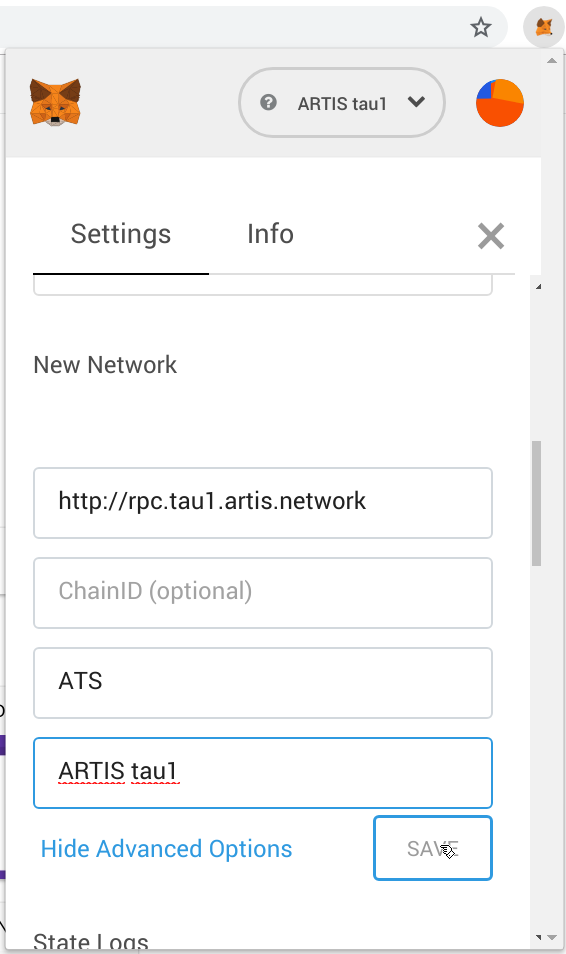
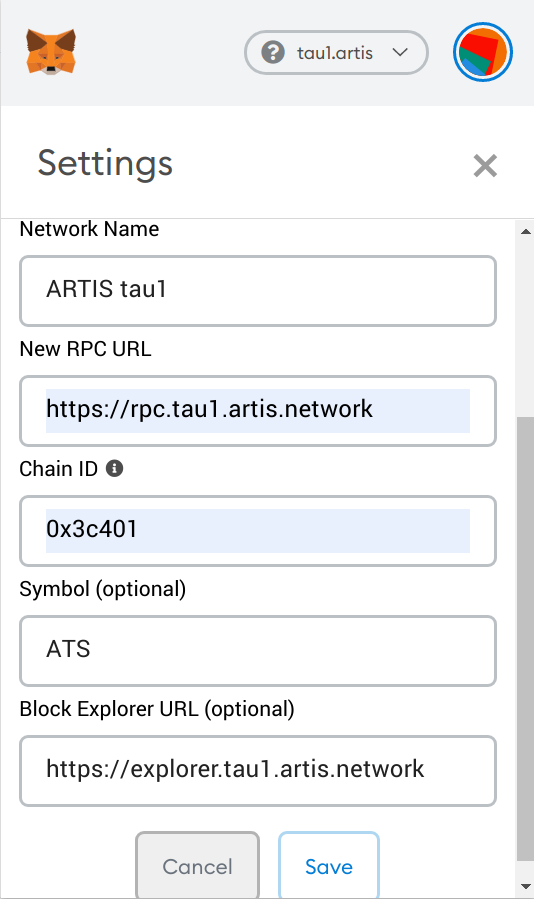
updated instructions for metamask (#3)
* updated instructions for metamask

* updated metamask screenshot

diff --git a/README.md b/README.md
@@ -154,9 +154,12 @@ You can check the status of the service with `systemctl status artis-tau1-status
 Once you have Metamask installed:
 * Open and unlock Metamask
 * Click the _Networks_ dropdown and choose _Custom RPC_
+* For _Network Name_, enter "ARTIS tau1"
 * For _RPC URL_, enter "http://rpc.tau1.artis.network"
-* (optional, but convenient) Click _show advanced options_, then enter "ATS" for _Symbol_ and "ARTIS tau1" for _Nickame_
-* Click _SAVE_
+* For _Chain ID_, enter "0x3c401"
+* For _symbol_, enter "ATS"
+* For _Block Explorer URL", enter "https://explorer.tau1.artis.network"
+* Click _Save_
 
 <img src="metamask_config_screenshot.png" width="400px">
 
